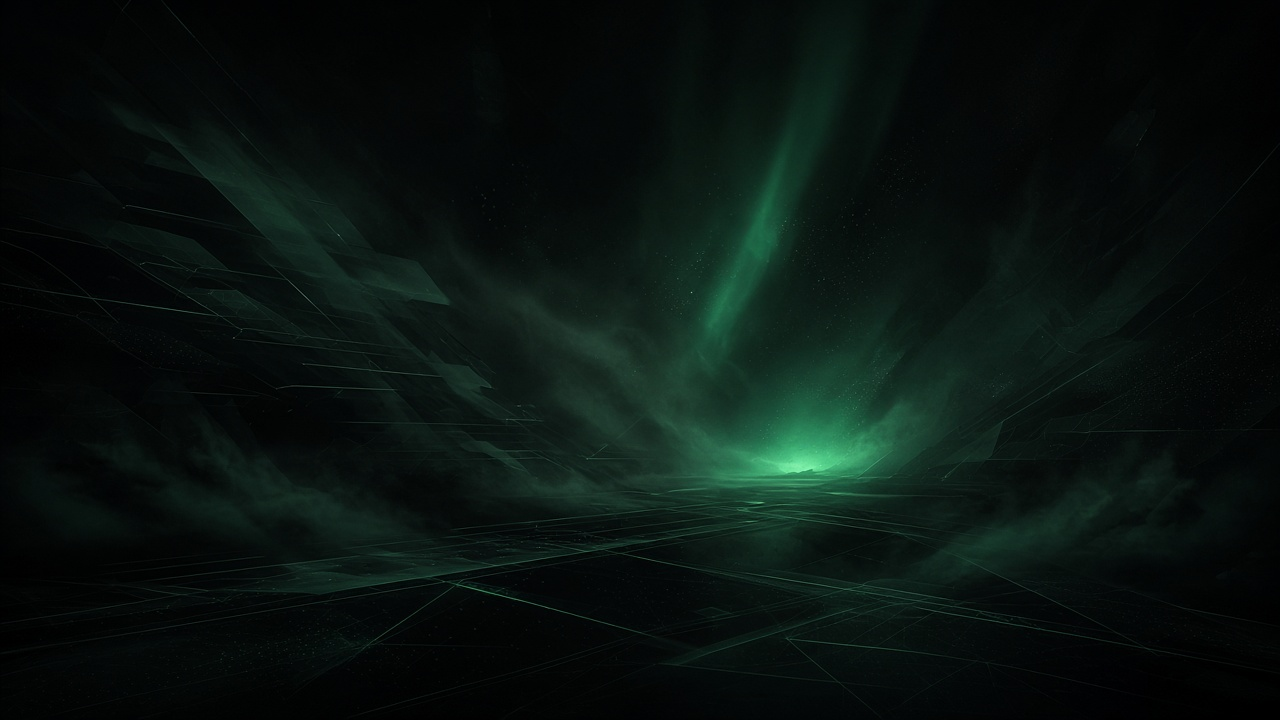
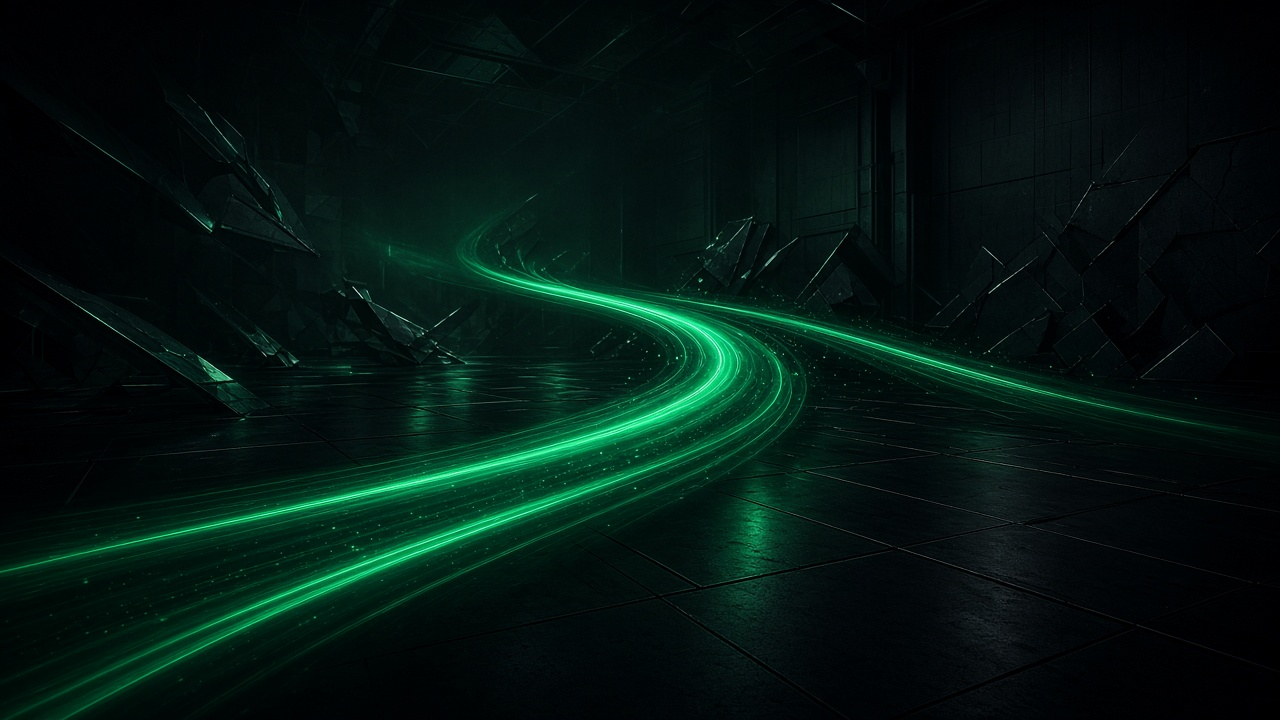
Refresh curiosity strip, How It Works copy, and Email Us footer.

diff --git a/src/components/sections/HowItWorks.tsx b/src/components/sections/HowItWorks.tsx
@@ -20,16 +20,16 @@ const HowItWorks = () => {
             icon: LineChart,
             title: lang === 'en' ? "Get a Custom Plan" : "Obtenga un Plan",
             description: lang === 'en'
-                ? "We provide a straightforward strategy to get you more leads and automate the boring stuff."
-                : "Le proporcionamos una estrategia directa para obtener más clientes y automatizar las tareas repetitivas."
+                ? "We make a custom plan to get you more leads and automate the boring stuff."
+                : "Hacemos un plan a medida para obtener más clientes y automatizar las tareas repetitivas."
         },
         {
             badge: lang === 'en' ? "Step 3" : "Paso 3",
             icon: Handshake,
             title: lang === 'en' ? "Grow Your Business" : "Haga Crecer su Negocio",
             description: lang === 'en'
-                ? "We implement the system. You focus on running your business and serving your new clients."
-                : "Implementamos el sistema. Usted se enfoca en administrar su negocio y atender a sus nuevos clientes."
+                ? "We start the system. You focus on running your business and serving your new clients."
+                : "Ponemos el sistema en marcha. Usted se enfoca en administrar su negocio y atender a sus nuevos clientes."
         }
     ];
 

diff --git a/src/components/Footer.tsx b/src/components/Footer.tsx
@@ -33,7 +33,7 @@ const Footer = () => {
               className="flex items-center gap-2 transition-colors hover:text-foreground"
             >
               <Mail className="h-3 w-3 opacity-60" />
-              engineering@carrillodynamics.com
+              {lang === "en" ? "Email Us" : "Escríbanos"}
             </a>
             <div className="flex items-center gap-2 opacity-60">
               <MapPin className="h-3 w-3" />
